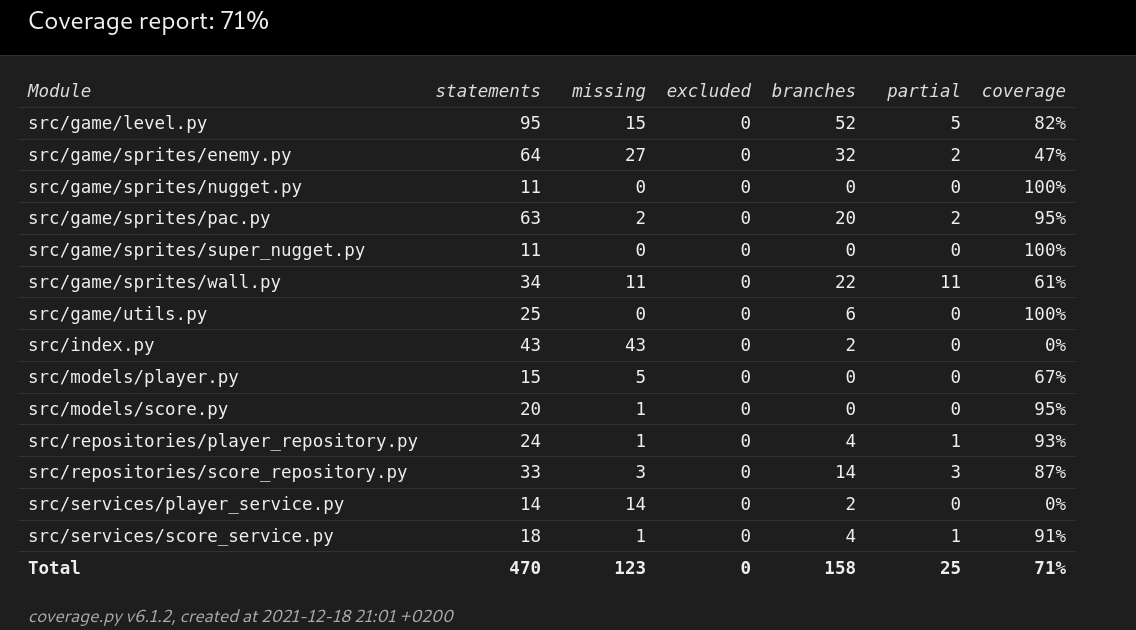
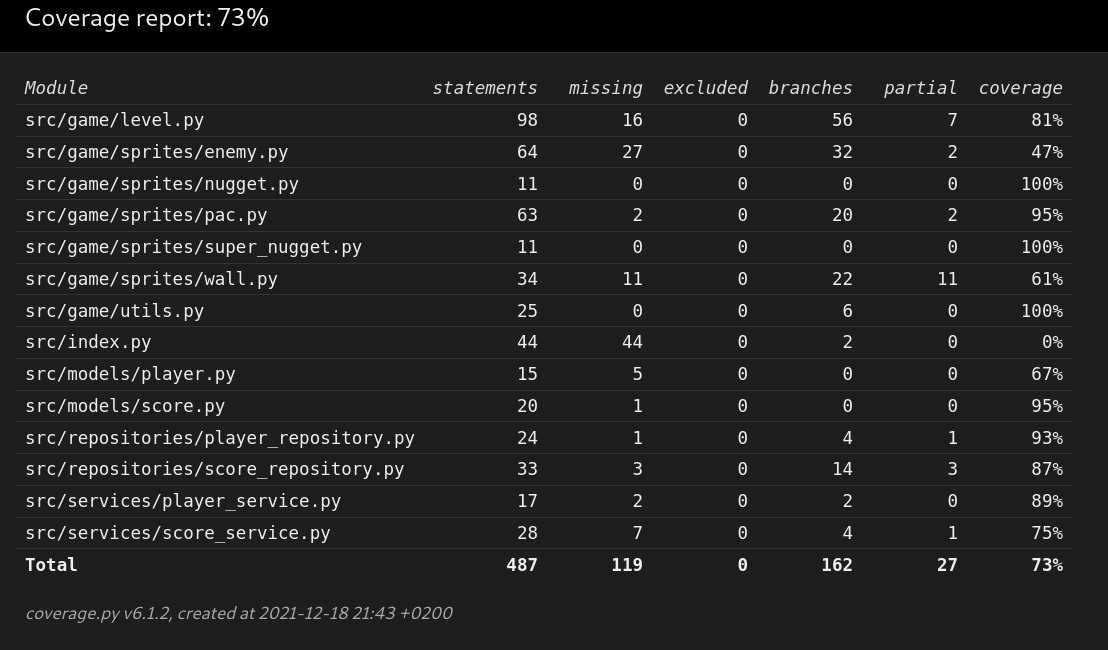
add unit tests, remove dev sql script

diff --git a/src/tests/services/player_service_test.py b/src/tests/services/player_service_test.py
@@ -1,0 +1,50 @@
+import unittest
+from datetime import datetime
+from db_connection import get_db_connection
+from models.player import Player
+from models.score import Score
+from repositories.player_repository import PlayerRepository
+from services.player_service import PlayerService
+
+
+class TestPlayerService(unittest.TestCase):
+    def setUp(self):
+        self.connection = get_db_connection()
+        self.player_repository = PlayerRepository(self.connection)
+        self.player_service = PlayerService(self.player_repository)
+
+    def clear_db(self):
+        self.connection.cursor().execute("DELETE FROM Players;")
+        self.connection.commit()
+
+    def test_player_login_creates_new_player(self):
+        count = self.connection.cursor().execute("SELECT count(*) FROM Players;")
+        count = count.fetchone()
+        self.assertEqual(count[0], 0)
+        res = self.player_service.player_login(name="Blinky")
+        self.assertIsInstance(res, Player)
+        count = self.connection.cursor().execute("SELECT count(*) FROM Players;")
+        count = count.fetchone()
+        self.assertEqual(count[0], 1)
+        self.clear_db()
+
+    def test_player_login_does_not_create_duplicates(self):
+        count = self.connection.cursor().execute("SELECT count(*) FROM Players;")
+        count = count.fetchone()
+        self.assertEqual(count[0], 0)
+        self.player_service.player_login(name="Blinky")
+        count = self.connection.cursor().execute("SELECT count(*) FROM Players;")
+        count = count.fetchone()
+        self.assertEqual(count[0], 1)
+        self.player_service.player_login(name="Blinky")
+        count = self.connection.cursor().execute("SELECT count(*) FROM Players;")
+        count = count.fetchone()
+        self.assertEqual(count[0], 1)
+        self.clear_db()
+
+    def test_player_updates_login_time_for_existing_player(self):
+        res = self.player_service.player_login(name="Blinky")
+        original_login = res.last_login
+        res = self.player_service.player_login(name="Blinky")
+        self.assertLess(original_login, res.last_login)
+        self.clear_db()

diff --git a/src/services/score_service.py b/src/services/score_service.py
@@ -21,11 +21,14 @@ class ScoreService:
             score (Score): score object
 
         Returns:
-            int: id of the inserted Score
+            int: id of the inserted Score or None if insertion failed
         """
         score.set_timestamp(datetime.now().timestamp())
-        score_id = self._score_repository.add_score(score)
-        return score_id
+        try:
+            score_id = self._score_repository.add_score(score)
+            return score_id
+        except Exception:
+            return None
 
     def get_top_scores_with_player_names(self, count: int) -> list:
         """Find top scores with the names of the players who made them
@@ -35,8 +38,13 @@ class ScoreService:
 
         Returns:
             list: triplets of score value, player name and score timestamp
+            or None in case of error.
         """
-        return self._score_repository.find_top_scores_with_player_names(count)
+        try:
+            tops = self._score_repository.find_top_scores_with_player_names(count)
+            return tops
+        except Exception:
+            return None
 
     def get_rank_of_score_by_id(self, score_id: int) -> int:
         """Find the ranking of a particular score
@@ -45,10 +53,13 @@ class ScoreService:
             score_id (int): score id
 
         Returns:
-            int: rank number
+            int: rank number or None if error.
         """
-        all_scores = self._score_repository.find_all_scores()
-        for i, score in enumerate(all_scores):
-            if score_id == score.id:
-                return i+1
-        return None
+        try:
+            all_scores = self._score_repository.find_all_scores()
+            for i, score in enumerate(all_scores):
+                if score_id == score.id:
+                    return i+1
+            return None # if score_id not in saved scores it's also error-worthy
+        except Exception:
+            return None

diff --git a/src/ui/login_menu.py b/src/ui/login_menu.py
@@ -26,15 +26,19 @@ class LoginMenu:
         self._name = ""
         self._start_disabled = True
         self._label = None
+        self._error_label = None
         self._init_screen()
 
     def _start_btn_callback(self):
         """Callback for start button"""
         if not self._start_disabled:
             player = self._player_service.player_login(self._name)
-            self._player.set_player(player)
-            self._score.set_player_id(player)
-            self._menu.disable()
+            if player is not None:
+                self._player.set_player(player)
+                self._score.set_player_id(player)
+                self._menu.disable()
+            else:
+                self._error_label.show()
         else:
             self._label.show()
 
@@ -64,6 +68,10 @@ class LoginMenu:
         self._label.add_underline(Color(255, 0, 0), 0, 2)
         self._label.resize(240, 30)
         self._label.hide()
+        self._error_label = self._menu.add.label("Unable to login or create player")
+        self._error_label.add_underline(Color(255, 0, 0), 0, 2)
+        self._error_label.resize(240, 30)
+        self._error_label.hide()
         self._menu.add.text_input(
             const.INPUT_LABEL_PLAYER_NAME, onchange=self._set_name)
         self._menu.add.button(

diff --git a/src/services/player_service.py b/src/services/player_service.py
@@ -2,7 +2,6 @@ from datetime import datetime
 from models.player import Player
 from repositories.player_repository import PlayerRepository
 
-
 class PlayerService:
     """Player service class, layer between logic/ui modules and repository class"""
 
@@ -22,14 +21,17 @@ class PlayerService:
             name (str): player name
 
         Returns:
-            Player: player object
+            Player: player object or None in case of error.
         """
         now = datetime.now().timestamp()
-        player = self._player_repository.find_player_by_name(name)
-        if player is None:
-            player = self._player_repository.add_player(
-                Player(name=name, last_login=now))
-        else:
-            player.set_login_time(now)
-            self._player_repository.update_player(player)
-        return player
+        try:
+            player = self._player_repository.find_player_by_name(name)
+            if player is None:
+                player = self._player_repository.add_player(
+                    Player(name=name, last_login=now))
+            else:
+                player.set_login_time(now)
+                self._player_repository.update_player(player)
+            return player
+        except Exception:
+            return None

diff --git a/src/game/level.py b/src/game/level.py
@@ -41,9 +41,11 @@ class Level:
             str: string with the top scores and players
         """
         scores = self._score_service.get_top_scores_with_player_names(3)
-        leaders = ", ".join(
-            [f"{i+1}: {s[1]} {s[0]}" for i, s in enumerate(scores)])
-        return leaders
+        if scores is not None:
+            leaders = ", ".join(
+                [f"{i+1}: {s[1]} {s[0]}" for i, s in enumerate(scores)])
+            return leaders
+        return "Error fetching leaderboard"
 
     def _create_level(self):
         """Create the level from level map"""
@@ -101,7 +103,8 @@ class Level:
             if len(self._nuggets) == 0:
                 self.is_finished = True
                 score_id = self._score_service.add_score(self.current_score)
-                self.current_score.set_id(score_id)
+                if score_id is not None:
+                    self.current_score.set_id(score_id)
 
         if self._check_collision(self._super_nuggets, do_kill=True):
             for enemy in self._enemies:

diff --git a/src/ui/game_over_menu.py b/src/ui/game_over_menu.py
@@ -53,8 +53,11 @@ class GameOverMenu:
         if self._level.pac.lives:
             title = const.PLAYER_WON
             rank = self._score_service.get_rank_of_score_by_id(self._level.current_score.id)
-            self._score_label.set_title(
-                const.PLAYER_SCORE.format(self._level.current_score.value, rank))
+            if rank is not None:
+                self._score_label.set_title(
+                    const.PLAYER_SCORE.format(self._level.current_score.value, rank))
+            else:
+                self._score_label.set_title("Error saving score")
             self._score_label.show()
         else:
             title = const.PLAYER_LOST

diff --git a/src/db_connection.py b/src/db_connection.py
@@ -1,11 +1,11 @@
 import os
 import sqlite3
-from constants import PRODUCTION, TESTING, DEVELOPMENT
+from constants import PRODUCTION, TESTING
 
 
 dirname = os.path.dirname(__file__)
 env = os.getenv("ENV").lower()
-if env not in [PRODUCTION, TESTING, DEVELOPMENT]:
+if env not in [PRODUCTION, TESTING]:
     raise Exception(f"Environment {env} not recognized.")
 
 db_file = f"database.{env}.sqlite"

diff --git a/src/tests/services/score_service_test.py b/src/tests/services/score_service_test.py
@@ -2,7 +2,6 @@ import unittest
 from datetime import datetime
 from db_connection import get_db_connection
 from models.score import Score
-
 from repositories.score_repository import ScoreRepository
 from services.score_service import ScoreService
 

diff --git a/src/constants.py b/src/constants.py
@@ -47,8 +47,6 @@ INPUT_LABEL_PLAYER_NAME = "Player name:"
 """Environment"""
 PRODUCTION = "prod"
 TESTING = "test"
-DEVELOPMENT = "dev"
-
 
 DIRECTION_KEYS = [pygame.K_UP, pygame.K_RIGHT, pygame.K_DOWN, pygame.K_LEFT]
 DIRECTION_MAP = {

diff --git a/dokumentaatio/vaatimusmaarittely.md b/dokumentaatio/vaatimusmaarittely.md
@@ -32,6 +32,7 @@ Kirjautumisen jälkeen:
 Sovelluksen tulee toimia Linux ja macOS-käyttöjärjestelmillä. Tuettu Python-versio on >= 3.8. Pelaajien käyttäjätunnukset ja pelikertojen tulokset tallentuvat sqlite-tietokantaan.
 
 ## Jatkokehitysideat
+- Pacin ja vihollisten liikkuminen on sujuvaa eikä solu kerrallaan nykivää
 - pelaaja voi kirjautua ulos jolloin sovellus palaa kirjautumisnäkymään
 - pelissä on useampia tasoja
 - peliin voi "importata" itse luodun tason
